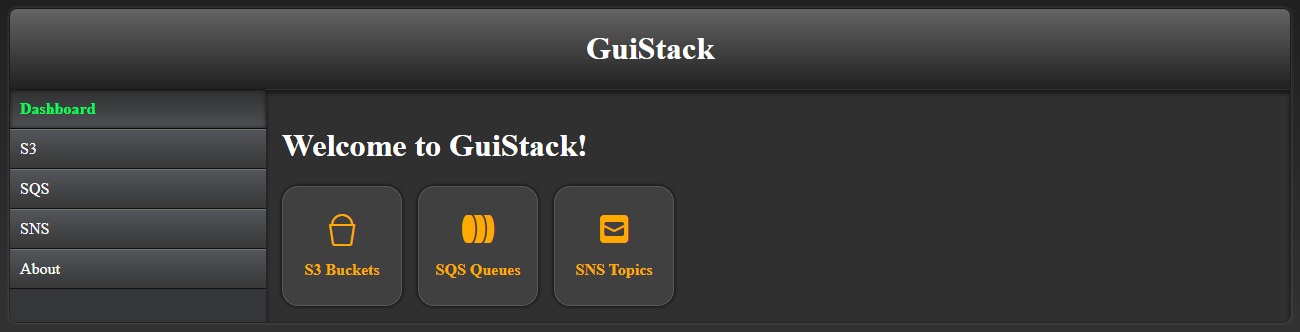
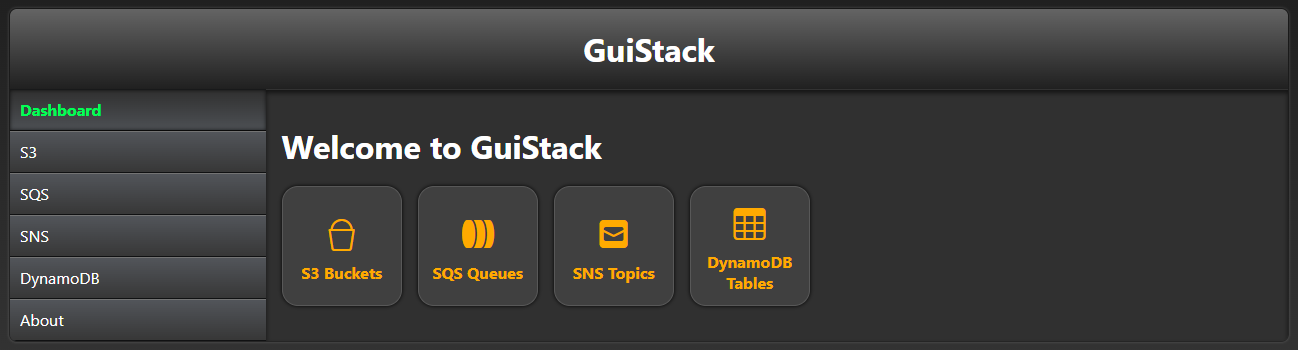
Updated README with DynamoDB support and new requirements

diff --git a/README.md b/README.md
@@ -25,6 +25,10 @@ Contributions and feature requests are welcome!
   - Create, view and delete subscriptions (only SQS subscriptions can be created at the moment)
   - Send messages to topics
 
+- **AWS DynamoDB**
+  - Create, view and delete tables
+  - Create, view, edit and delete items
+
 Also see the [checklist of upcoming features](https://github.com/Visual-Vincent/GuiStack/issues/1).
 
 ## Download
@@ -32,7 +36,7 @@ Also see the [checklist of upcoming features](https://github.com/Visual-Vincent/
 Download precompiled executables from [Releases](https://github.com/Visual-Vincent/GuiStack/releases), or pull the latest [Docker image](https://hub.docker.com/r/visualvincent/guistack).
 
 ## System requirements
-- ASP.NET Core Runtime for .NET 6.0 or newer ([Download](https://dotnet.microsoft.com/en-us/download/dotnet))
+- ASP.NET Core Runtime for .NET 10.0 or newer ([Download](https://dotnet.microsoft.com/en-us/download/dotnet))
 - Any operating system supported by the above runtime
 
 ## Running
@@ -54,15 +58,16 @@ Download the [`default-run-docker.sh`](/scripts/default-run-docker.sh) script fr
 ## Configuration
 GuiStack can be configured by setting various environment variables before starting the application. Most of them are provided in the `run.sh` or `run.bat` file included within the release (or in `default-run-docker.sh`, if using the Docker image).
 
-| Variable name           | Default value (in `run.sh`) |
-| ----------------------- | --------------------------- |
-| AWS_ACCESS_KEY_ID       | localstack                  |
-| AWS_SECRET_ACCESS_KEY   | localstack                  |
-| AWS_REGION              | eu-central-1                |
-| AWS_S3_ENDPOINT_URL     | http://localhost:4566       |
-| AWS_SNS_ENDPOINT_URL    | http://localhost:4566       |
-| AWS_SQS_ENDPOINT_URL    | http://localhost:4566       |
-| AWS_S3_FORCE_PATH_STYLE | true                        |
+| Variable name             | Default value (in `run.sh`) |
+| ------------------------- | --------------------------- |
+| AWS_ACCESS_KEY_ID         | localstack                  |
+| AWS_SECRET_ACCESS_KEY     | localstack                  |
+| AWS_REGION                | eu-central-1                |
+| AWS_S3_ENDPOINT_URL       | http://localhost:4566       |
+| AWS_SNS_ENDPOINT_URL      | http://localhost:4566       |
+| AWS_SQS_ENDPOINT_URL      | http://localhost:4566       |
+| AWS_DYNAMODB_ENDPOINT_URL | http://localhost:4566       |
+| AWS_S3_FORCE_PATH_STYLE   | true                        |
 
 ### Listening ports (standalone release)
 By default, GuiStack can be accessed via https://localhost:5001. To configure which port GuiStack should listen to, edit the accompanying `appsettings.json` file and add a property called `"Urls"`:
@@ -90,10 +95,12 @@ docker run -p 5000:80 \
 
 ## Building
 Requires:
-- .NET 6.0 SDK or newer ([Download](https://dotnet.microsoft.com/en-us/download/dotnet))
+- .NET 10.0 SDK or newer ([Download](https://dotnet.microsoft.com/en-us/download/dotnet))
+- Node.js v24.x or newer ([Download](https://nodejs.org/en/download))
+- pnpm ([Download](https://pnpm.io/installation))
 - Git Bash (if building on Windows) ([Download](https://gitforwindows.org/))
 
 Optional:
-- Visual Studio 2022
+- Visual Studio 2026
 
 To build GuiStack, simply execute one of the `build-*.sh` scripts for the platform you wish to build for, located in the root of this repository.
